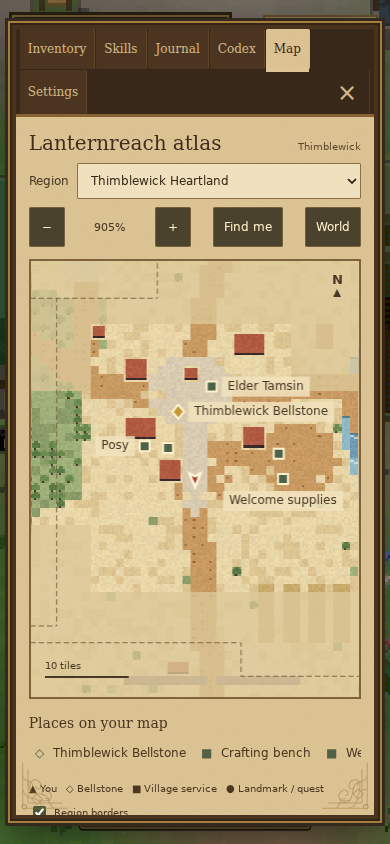
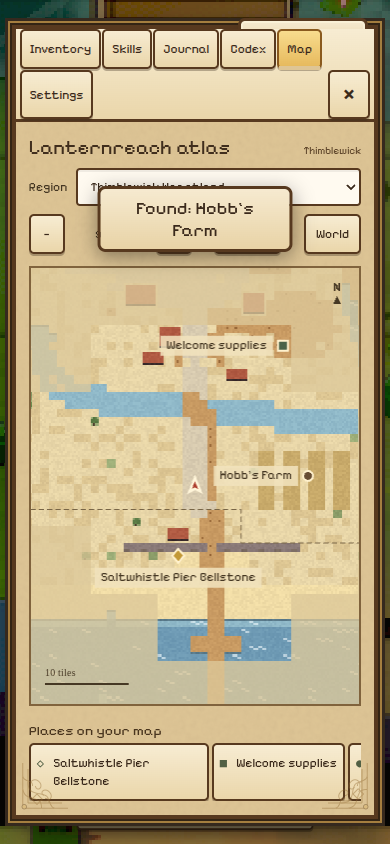
World pass: quest playthrough tests, Dev Lab handoff, before/after captures, region camera edge fix
- tests/world7.test.mjs plays both regions end to end: entrances, discovery card
  (once, respects the setting), both side quests, the bell puzzle, the shortcuts,
  the Undercroft exit, waypoint, journal and a reload
- docs/world-expansion-devlab.json: stable ids and sandbox-only test recipes
- docs/screens/world7: Thimblewick before/after and the two new regions
- Region areas clamp the camera to the map edge (no void past the entrance lawn)
- The discovery card rests fully visible; animation is decoration only
- Crystals glow in the Glowroot chasm

Claude-Session: https://claude.ai/code/session_017mkmcipsex9gb16HTWnHH3

diff --git a/world7.css b/world7.css
@@ -1,20 +1,20 @@
 /* World pass: the discovery card and the atlas waypoint bar. Loaded after parchment.css. */
-#region-reveal{position:absolute;left:50%;top:24%;transform:translate(-50%,-8px);min-width:min(460px,86vw);max-width:92vw;padding:12px 30px 14px;text-align:center;
+#region-reveal{position:absolute;left:50%;top:29%;transform:translate(-50%,-8px);min-width:min(460px,86vw);max-width:92vw;padding:12px 30px 14px;text-align:center;
   background:var(--book,none) center/cover,linear-gradient(180deg,#f7ecd2,#ead6aa);color:#3a291b;border:3px solid #57391f;border-radius:10px;
   box-shadow:0 0 0 2px #f8ecd0 inset,0 10px 24px #0005;pointer-events:none;opacity:0;z-index:40;font-family:'Mossling',monospace}
 #region-reveal small{display:block;font-size:12px;letter-spacing:3px;text-transform:uppercase;color:#6b5234}
-#region-reveal h2{margin:4px 0 2px;font-size:30px;letter-spacing:1px;color:#3a291b;
-  background:linear-gradient(90deg,#3a291b 0 50%,transparent 50%) 100% 0/200% 100% no-repeat;-webkit-background-clip:text;background-clip:text;-webkit-text-fill-color:transparent}
+#region-reveal h2{margin:4px 0 2px;font-size:30px;letter-spacing:1px;color:#3a291b}
 #region-reveal span{font-size:12px;color:#6b5234}
 #region-reveal::before,#region-reveal::after{content:'';position:absolute;top:50%;width:26px;height:2px;background:#57391f}
 #region-reveal::before{left:10px}#region-reveal::after{right:10px}
-#region-reveal.show{animation:revealIn .5s ease-out forwards}
-#region-reveal.show h2{animation:inkIn 1.3s .25s ease-out forwards}
-#region-reveal.show.still,#region-reveal.show.still h2{animation:none;opacity:1;transform:translate(-50%,0);background-position:0 0}
-#region-reveal.hide{animation:revealOut .7s ease-in forwards}
+/* the resting state is the finished one, so the card is readable even if an animation never runs */
+#region-reveal.show{opacity:1;transform:translate(-50%,0);animation:revealIn .5s ease-out}
+#region-reveal.show h2{animation:inkIn 1.1s .2s ease-out backwards}
+#region-reveal.show.still,#region-reveal.show.still h2{animation:none}
+#region-reveal.hide{opacity:0;animation:revealOut .7s ease-in}
 @keyframes revealIn{from{opacity:0;transform:translate(-50%,-8px)}to{opacity:1;transform:translate(-50%,0)}}
 @keyframes revealOut{from{opacity:1;transform:translate(-50%,0)}to{opacity:0;transform:translate(-50%,-6px)}}
-@keyframes inkIn{to{background-position:0 0}}
+@keyframes inkIn{from{clip-path:inset(0 100% 0 0)}to{clip-path:inset(0 0 0 0)}}
 .reduce-motion #region-reveal.hide{animation:none;opacity:0}
 #atlas-waypoint{display:flex;gap:8px;align-items:center;flex-wrap:wrap;padding:6px 8px;margin-top:6px;border:2px solid #57391f;border-radius:6px;background:#f1e2bf;color:#3a291b;font-size:13px}
 #atlas-waypoint em{color:#6b5234;font-style:normal;font-size:12px}

diff --git a/src/world/regions7.js b/src/world/regions7.js
@@ -297,6 +297,7 @@ export function buildRootlight() {
   K.blob(56, 29, 17, 16, floor(), 0.22, 7); K.place(40, 12, 73, 47, P.hall);
   K.blob(56, 30, 9, 3.2, (x, y) => g.set(x, y, T.PIT), 0.2, 8);               // the chasm
   K.path([[41, 13], [48, 22], [56, 30], [63, 38], [66, 46]], T.CAVE, 1);    // the visible route across
+  for (const [x, y, sc] of [[50, 29, 1.4], [53, 31, 1.1], [60, 29, 1.5], [62, 31, 1], [57, 32, 1.2]]) if (g.get(x, y) === T.PIT) K.def({ type: 'landmark', model: 'crystalcluster', x: x + 0.5, z: y + 0.5, w: 1, d: 1, s: sc, y: -2.6 }); // the chasm glows from below
   for (let x = 44; x <= 68; x++) for (let y = 20; y <= 42; y++) if (g.get(x, y) === T.BRIDGE) K.E(x, y, 0.05);
   K.landmark('rl-hall', 'The Glowroot Hall', 'bigshroom', 48, 34, 3, 3, { big: true, major: true });
   for (const [x, y, s] of [[64, 20, 1], [62, 44, 0], [47, 42, 1], [69, 30, 0]]) { K.rect(x - 1, y - 1, x, y, T.PROP); K.def({ type: 'deco', model: 'bigshroom', x, z: y, w: 2, d: 2, big: !!s }); }

diff --git a/src/game.js b/src/game.js
@@ -1443,7 +1443,9 @@ export class Game {
     } else {
       const a = this.area;
       const halfW = this.pr.rw * this.pr.unitsPerPx / 2;
-      x = clamp(x, halfW, a.w - halfW); z = clamp(z, 7, a.h - 5);
+      x = clamp(x, halfW, a.w - halfW);
+      if (a.region7) { const halfD = this.pr.viewHeight / Math.sin(PITCH) / 2; z = clamp(z, halfD - 1, a.h - halfD - 2); } // regions: never show the void past the map edge
+      else z = clamp(z, 7, a.h - 5);
     }
     return { x, z };
   }

diff --git a/docs/patch-notes/world-expansion.md b/docs/patch-notes/world-expansion.md
@@ -1,4 +1,4 @@
-# World expansion (work in progress)
+# World expansion
 
 Branch `feat/world-discovery-expansion`, based on `feat/class-combat-rework` @ `09189fc`.
 
@@ -51,9 +51,25 @@ Branch `feat/world-discovery-expansion`, based on `feat/class-combat-rework` @ `
   - `index.html`: the stylesheet link.
 - **Save migration:** `LAYOUT_VERSION` 3 is idempotent. A death drop that lies inside the rebuilt town moves to the Bell Tree square. The fog grid size is unchanged, and new state lives in `sig:w7:*` flags and `w7:waypoint`.
 
-## Known limitations (to finish)
+## Verification
 
-- The Dev Lab handoff file (`docs/world-expansion-devlab.json`), a before/after capture set and dedicated region tests are still to come.
-- Full playthroughs of both quests have not yet been automated. So far only the builders, loading, discovery and the migration have been verified.
-- In region areas the camera can show empty space past the map edge near the entrance lawn.
-- The old "west road reaches Rootwell Hollow" check fails on the baseline too.
+- **Quest playthroughs:** `tests/world7.test.mjs` (23 checks) plays both regions through the real game:
+  - the ways in and out, and the discovery card (once per character, and it respects the setting);
+  - both side quests start to finish, the bell puzzle, the three shortcuts (Mainspring Gate, wicket, Root Lift) and the Undercroft exit;
+  - the waypoint and the journal;
+  - everything survives a reload.
+- **Unit tests:** `tests/world.unit.mjs` covers the builders, reachability, mini-dungeon exits and the idempotent layout-3 migration.
+- **Dev Lab handoff:** `docs/world-expansion-devlab.json` has stable ids and sandbox-only recipes for the arrival tour, each entrance and its landmarks, both quests, the secrets, both mini-dungeons, discovery re-entry and an old-save migration.
+- **Captures:** `docs/screens/world7/` holds Thimblewick before and after, the Clockwork Garden, the Rootlight Caverns and the discovery card. Recreate them with `OUT=docs/screens/world7 TAG=after node tests/run.mjs zshots_w7`.
+
+## Fixes after the first preview
+
+- Region camera: in region areas the camera now stops at the map edge, so the entrance lawn no longer shows empty sky.
+- The Glowroot chasm has crystals glowing from below.
+- Discovery card: its resting state is fully visible, so it can never get stuck invisible if an animation does not run. It also sits a little lower, clear of the "Found:" note.
+
+## Known limitations
+
+- Two older checks fail on this branch, and both fail on the baseline too (so not caused by this work):
+  - **World suite, "west road reaches Rootwell Hollow":** also fails on `09189fc`.
+  - **Chapter suite (samurai run):** also fails on `09189fc` and on `686a64b`, the commit before the combat rework.
